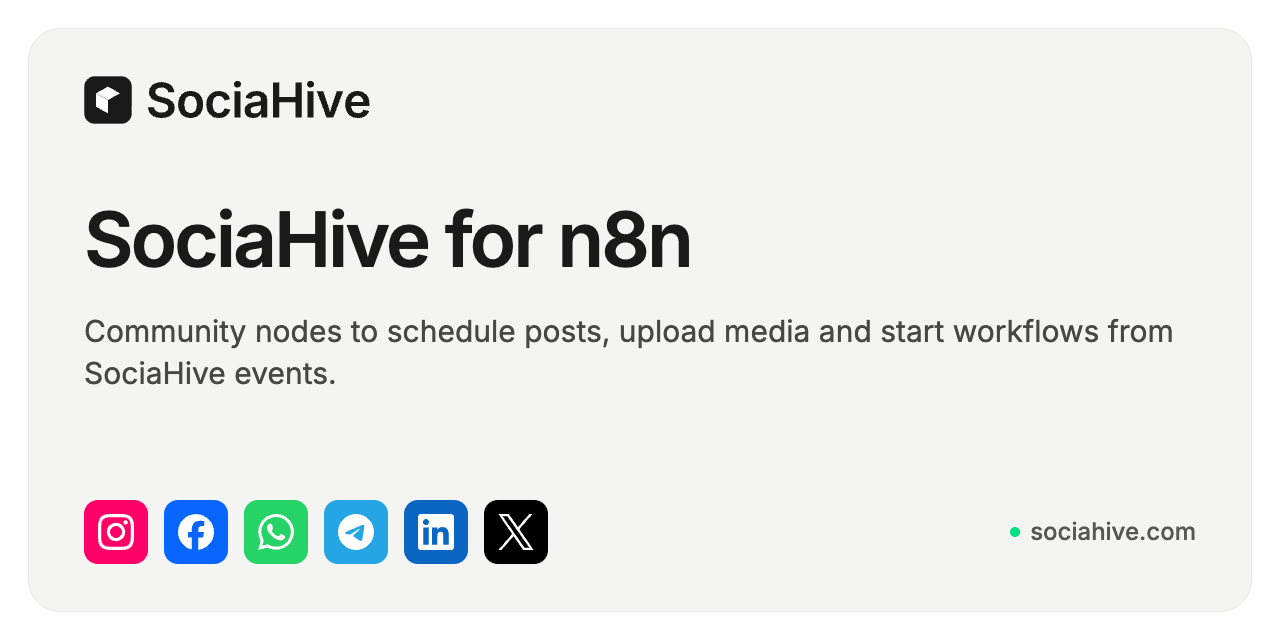
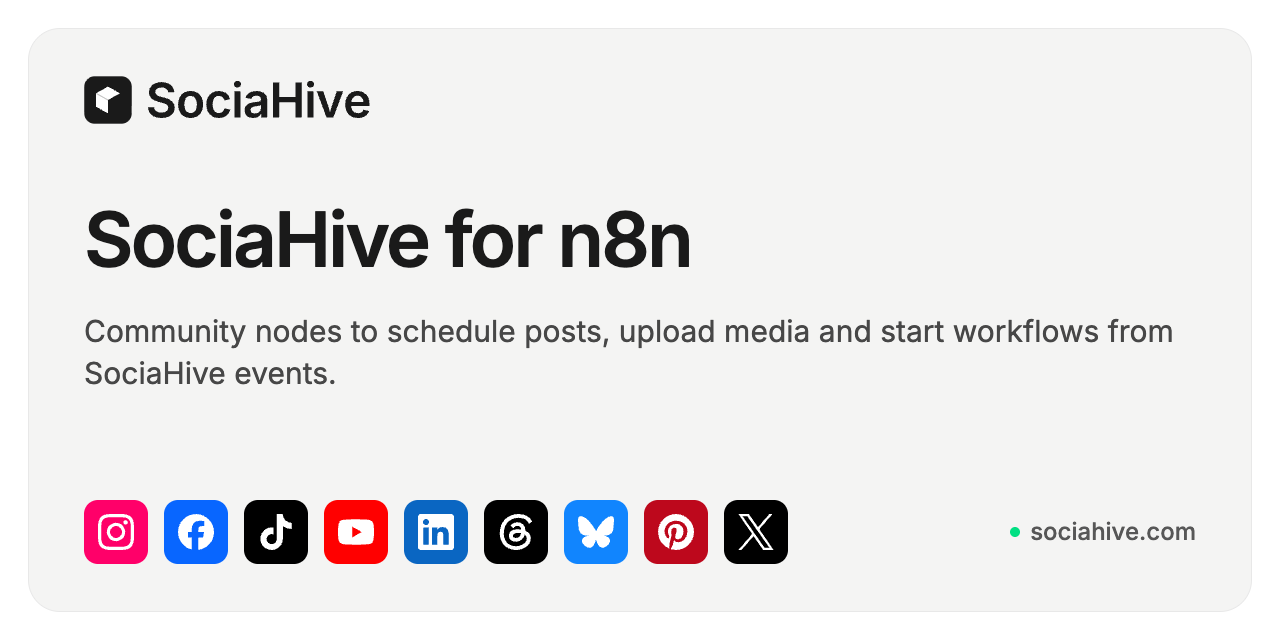
Align the profile and previews with what ships
- profile: the shared tagline; docs.sociahive.com; n8n marked coming soon (not
  on npm yet); the Zapier repo described as the small app it is
- n8n and Zapier social previews show the platforms those apps can post to,
  not WhatsApp, Telegram or Messenger
- bug template asks for 'your n8n version'; issue config links docs.sociahive.com

Changed region(s): [[0.375, 0.7812, 0.625, 0.9062], [0.1875, 0.7812, 0.3125, 0.9062]]

diff --git a/profile/README.md b/profile/README.md
@@ -7,13 +7,13 @@
   </a>
 </p>
 
-<p align="center"><strong>Schedule posts, run DM and comment automations, and answer customers, from the app or from your AI tool.</strong></p>
+<p align="center"><strong>Run your social media from your AI tool: schedule posts, build DM and comment automations, and read analytics.</strong></p>
 
 <p align="center">
   <a href="https://www.sociahive.com">Website</a> ·
   <a href="https://www.sociahive.com/connect-ai">Connect your AI</a> ·
   <a href="https://www.sociahive.com/developers">Developers</a> ·
-  <a href="https://www.sociahive.com/docs">Docs</a> ·
+  <a href="https://docs.sociahive.com">Docs</a> ·
   <a href="https://www.sociahive.com/api/v1/docs">API</a>
 </p>
 
@@ -51,18 +51,18 @@
 |---|---|
 | Let ChatGPT, Claude, Cursor or another AI tool run SociaHive for you | [Connect your AI](https://www.sociahive.com/connect-ai) and [sociahive-mcp](https://github.com/sociahive/sociahive-mcp) |
 | Call the REST API from your own code | [sociahive-node](https://github.com/sociahive/sociahive-node), [sociahive-python](https://github.com/sociahive/sociahive-python) and the [API reference](https://www.sociahive.com/api/v1/docs) |
-| Use SociaHive in n8n, Zapier or Make | The [n8n community node](https://github.com/sociahive/n8n-nodes-sociahive). Zapier and Make apps are coming to their app directories. |
+| Use SociaHive in n8n, Zapier or Make | Coming soon: the [n8n community node](https://github.com/sociahive/n8n-nodes-sociahive) is not on npm yet, and the Zapier and Make apps are coming to their app directories. |
 
 ## Repositories
 
 | Repository | What it is |
 |---|---|
 | [sociahive-mcp](https://github.com/sociahive/sociahive-mcp) | The hosted MCP server, skill and plugins for AI tools |
-| [n8n-nodes-sociahive](https://github.com/sociahive/n8n-nodes-sociahive) | n8n community node: posts, media, automations and SociaHive triggers |
+| [n8n-nodes-sociahive](https://github.com/sociahive/n8n-nodes-sociahive) | n8n community node for posts, media, automations and SociaHive triggers. Coming soon, not on npm yet |
 | [sociahive-node](https://github.com/sociahive/sociahive-node) | Official Node.js and TypeScript SDK, `@sociahive/sdk` on npm |
 | [sociahive-python](https://github.com/sociahive/sociahive-python) | Official Python SDK, `sociahive` on PyPI |
 | [cookbook](https://github.com/sociahive/cookbook) | Runnable recipes for the API, the SDKs and the MCP server |
-| [zapier-platform-app](https://github.com/sociahive/zapier-platform-app) | The SociaHive Zapier app, coming to the Zapier app directory |
+| [zapier-platform-app](https://github.com/sociahive/zapier-platform-app) | A small SociaHive app for Zapier (new published post, create post). A fuller app is being prepared for the Zapier directory |
 | [sociahive-motion-clips](https://github.com/sociahive/sociahive-motion-clips) | Short product clips for anyone making a video about SociaHive |
 
 ## Data and permissions
@@ -70,7 +70,7 @@
 - **Official APIs only.** Every channel connects through the platform's own API: OAuth for Meta, TikTok, X, LinkedIn, YouTube and Pinterest, a bot token for Telegram, an app password for Bluesky. We never ask for your account password and we don't scrape.
 - **Tokens stay with us.** Platform access tokens are written encrypted (AES-256-GCM) and are never returned to AI clients or API callers.
 - **Scoped access for AI tools.** An AI tool sees only what its API key scopes or OAuth grant allow. You can grant read-only access when you connect.
-- **Revoke any time.** Remove an AI tool in Settings → Connected apps, or delete its API key, and it loses access on its next request.
+- **Revoke any time.** Remove an AI tool in **Settings > Connected apps**, or delete its API key, and it loses access on its next request.
 
 ## Contact
 
